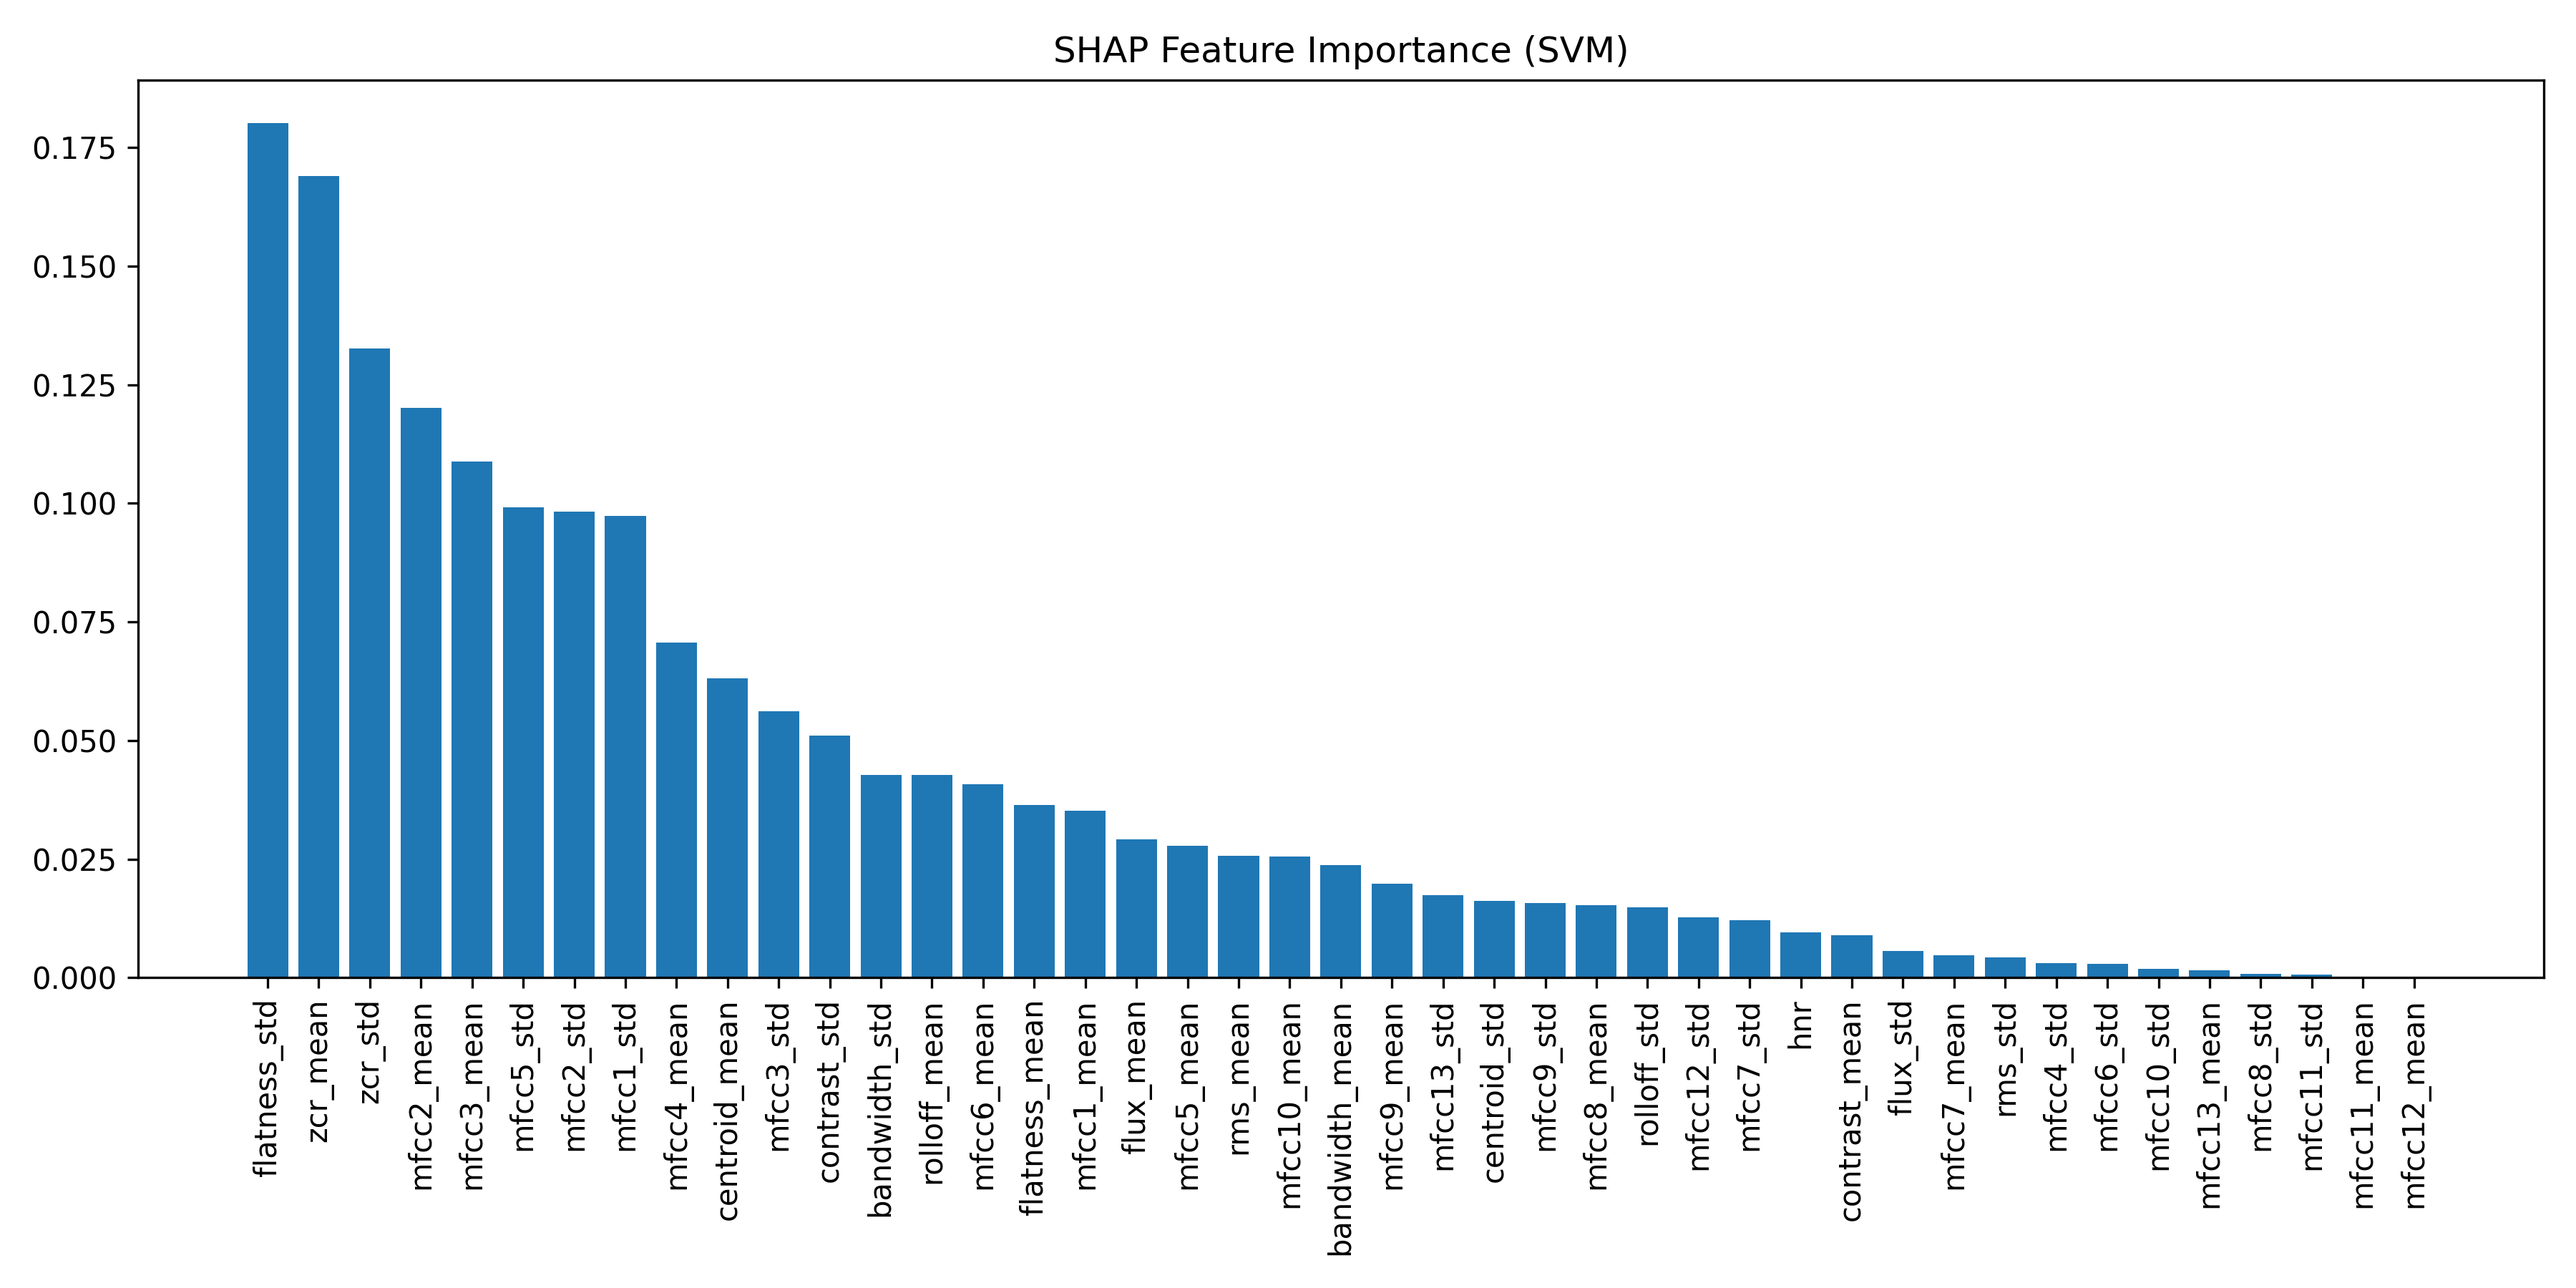
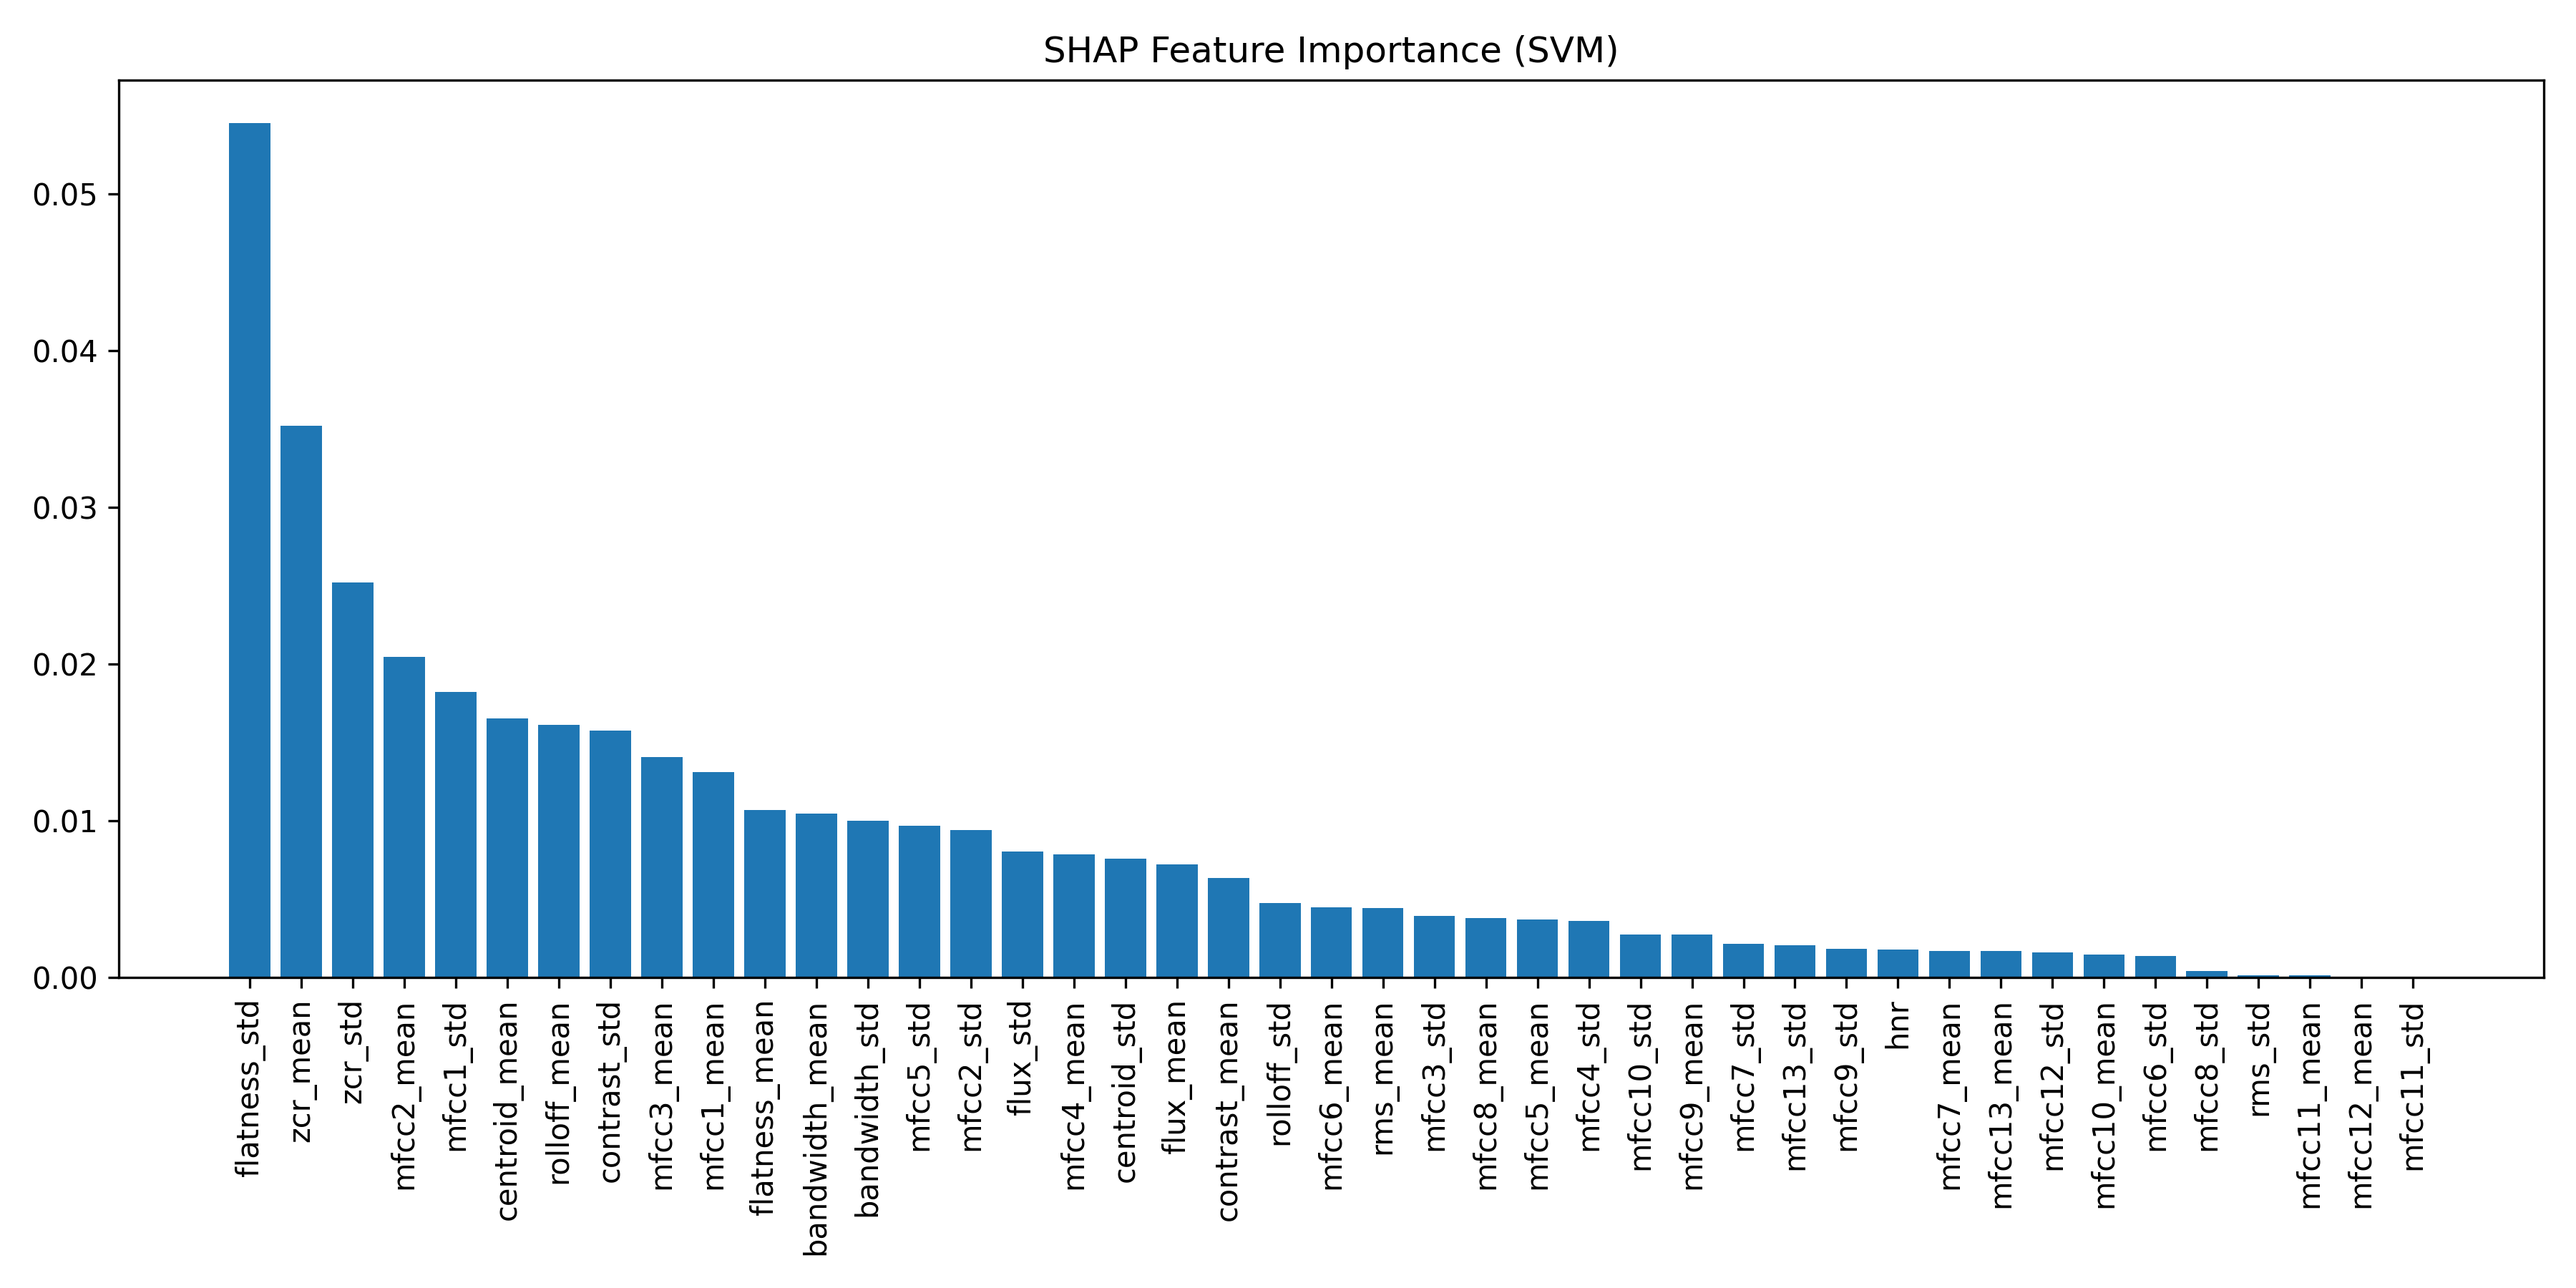
tubv

Changed region(s): [[0.0, 0.0933, 0.9644, 0.9644], [0.4044, 0.0311, 0.6533, 0.0622], [0.0311, 0.7467, 0.0622, 0.7778]]

diff --git a/Modeller/SVM/svmkungrid.py b/Modeller/SVM/svmkungrid.py
@@ -6,7 +6,7 @@ import pandas as pd
 import numpy as np
 import matplotlib.pyplot as plt
 
-from sklearn.model_selection import StratifiedKFold, GridSearchCV
+from sklearn.model_selection import GridSearchCV
 from sklearn.preprocessing import LabelEncoder, StandardScaler
 from sklearn.metrics import classification_report, confusion_matrix, accuracy_score
 from sklearn.svm import SVC
@@ -24,8 +24,6 @@ TARGET_COLUMN = "target"
 IRRELEVANT_COLUMNS = ["filnavn", "beta", "snr_db"]
 TARGET_CLASSES = ["BlueNoise", "BrownNoise", "Clean", "PinkNoise", "VioletNoise", "WhiteNoise"]
 
-N_SPLITS_OUTER = 5
-N_SPLITS_INNER = 5
 RANDOM_STATE = 42
 
 PARAM_GRID = {
@@ -63,62 +61,11 @@ def prepare_features(df):
     return X, y_encoded, label_encoder
 
 # ============================================================
-# 4. SCALING
+# 4. TRAIN MODEL (KUN GRIDSEARCH)
 # ============================================================
 
-def scale_features(X_train, X_val):
-    scaler = StandardScaler()
-    X_train_s = scaler.fit_transform(X_train)
-    X_val_s = scaler.transform(X_val)
-    return X_train_s, X_val_s, scaler
-
-# ============================================================
-# 5. NESTED CV (EVALUERING)
-# ============================================================
-
-def nested_cv_evaluation(X, y, param_grid):
-    outer_cv = StratifiedKFold(n_splits=N_SPLITS_OUTER, shuffle=True, random_state=RANDOM_STATE)
-    inner_cv = StratifiedKFold(n_splits=N_SPLITS_INNER, shuffle=True, random_state=RANDOM_STATE)
-
-    outer_scores = []
-
-    for fold, (train_idx, val_idx) in enumerate(outer_cv.split(X, y), 1):
-        print(f"\n=== Outer Fold {fold} ===")
-
-        X_train, X_val = X.iloc[train_idx], X.iloc[val_idx]
-        y_train, y_val = y.iloc[train_idx], y.iloc[val_idx]
-
-        X_train_s, X_val_s, _ = scale_features(X_train, X_val)
-
-        grid = GridSearchCV(
-            SVC(probability=True, random_state=RANDOM_STATE),
-            param_grid,
-            scoring="accuracy",
-            cv=inner_cv,
-            n_jobs=-1
-        )
-
-        grid.fit(X_train_s, y_train)
-
-        print("Best params:", grid.best_params_)
-
-        best_model = grid.best_estimator_
-
-        y_pred = best_model.predict(X_val_s)
-        acc = accuracy_score(y_val, y_pred)
-
-        print("Outer Accuracy:", acc)
-        outer_scores.append(acc)
-
-    print("\n=== Nested CV Result ===")
-    print(f"Mean accuracy: {np.mean(outer_scores):.3f} ± {np.std(outer_scores):.3f}")
-
-# ============================================================
-# 6. FINAL MODEL (KORREKT)
-# ============================================================
-
-def train_final_model(X, y, param_grid):
-    print("\n=== TRAINING FINAL MODEL ===")
+def train_model_with_gridsearch(X, y, param_grid):
+    print("\n=== TRAINING WITH GRIDSEARCH ===")
 
     scaler = StandardScaler()
     X_scaled = scaler.fit_transform(X)
@@ -133,14 +80,13 @@ def train_final_model(X, y, param_grid):
 
     grid.fit(X_scaled, y)
 
-    print("Final best params:", grid.best_params_)
+    print("Best params:", grid.best_params_)
+    print("Best CV score:", grid.best_score_)
 
-    best_model = grid.best_estimator_
-
-    return best_model, scaler
+    return grid.best_estimator_, scaler
 
 # ============================================================
-# 7. EVALUATION
+# 5. EVALUATION
 # ============================================================
 
 def evaluate_model(model, scaler, X, y, label_encoder):
@@ -157,10 +103,10 @@ def evaluate_model(model, scaler, X, y, label_encoder):
     return X_scaled, y_pred
 
 # ============================================================
-# 8. SHAP FEATURE IMPORTANCE (DIN VERSION + FIX)
+# 6. SHAP FEATURE IMPORTANCE
 # ============================================================
 
-def shap_feature_importance(model, X_train, X_val, feature_names, save_path="Modeller/SVM/shap_feature_importance2.png"):
+def shap_feature_importance(model, X_train, X_val, feature_names, save_path="Modeller/SVM/shap_feature_importance3.png"):
     print("\n=== SHAP FEATURE IMPORTANCE ===")
 
     X_sample = X_train[:100]
@@ -170,9 +116,9 @@ def shap_feature_importance(model, X_train, X_val, feature_names, save_path="Mod
 
     mean_abs_shap = np.mean(np.abs(shap_values), axis=0)
 
-    # Hvis multi-class → reducer over klasser
     if len(mean_abs_shap.shape) > 1:
         mean_abs_shap = mean_abs_shap.mean(axis=1)
+
     importance = pd.Series(mean_abs_shap, index=feature_names).sort_values(ascending=False)
 
     plt.figure(figsize=(12,6))
@@ -188,7 +134,7 @@ def shap_feature_importance(model, X_train, X_val, feature_names, save_path="Mod
     return importance
 
 # ============================================================
-# 9. MAIN
+# 7. MAIN
 # ============================================================
 
 if __name__ == "__main__":
@@ -199,16 +145,13 @@ if __name__ == "__main__":
     X_train, y_train, label_encoder = prepare_features(df_train)
     X_test,  y_test,  _ = prepare_features(df_test)
 
-    # 1. Nested CV (kun evaluering)
-    nested_cv_evaluation(X_train, y_train, PARAM_GRID)
+    # 1. Train model med GridSearch
+    best_model, scaler = train_model_with_gridsearch(X_train, y_train, PARAM_GRID)
 
-    # 2. Final model
-    best_model, scaler = train_final_model(X_train, y_train, PARAM_GRID)
-
-    # 3. Evaluation
+    # 2. Evaluation
     X_test_scaled, _ = evaluate_model(best_model, scaler, X_test, y_test, label_encoder)
 
-    # 4. SHAP (FIXET: bruger samme scaler)
+    # 3. SHAP
     X_train_scaled = scaler.transform(X_train)
 
     shap_feature_importance(

diff --git a/Modeller/SVM/svmtest.py b/Modeller/SVM/svmtest.py
@@ -137,13 +137,17 @@ def shap_feature_importance(model, X_train, X_val, feature_names, save_path="Mod
     X_sample = X_train[:100]
 
     # KernelExplainer virker for SVM
-    explainer = shap.KernelExplainer(model.predict, X_sample)
+    explainer = shap.KernelExplainer(model.predict_proba, X_sample)
 
     # SHAP values for validation sample
     shap_values = explainer.shap_values(X_val[:50])
 
     # Global feature importance
     mean_abs_shap = np.mean(np.abs(shap_values), axis=0)
+
+# Hvis multi-class → reducer over klasser
+    if len(mean_abs_shap.shape) > 1:
+        mean_abs_shap = mean_abs_shap.mean(axis=1)
     importance = pd.Series(mean_abs_shap, index=feature_names).sort_values(ascending=False)
 
     # Plot
